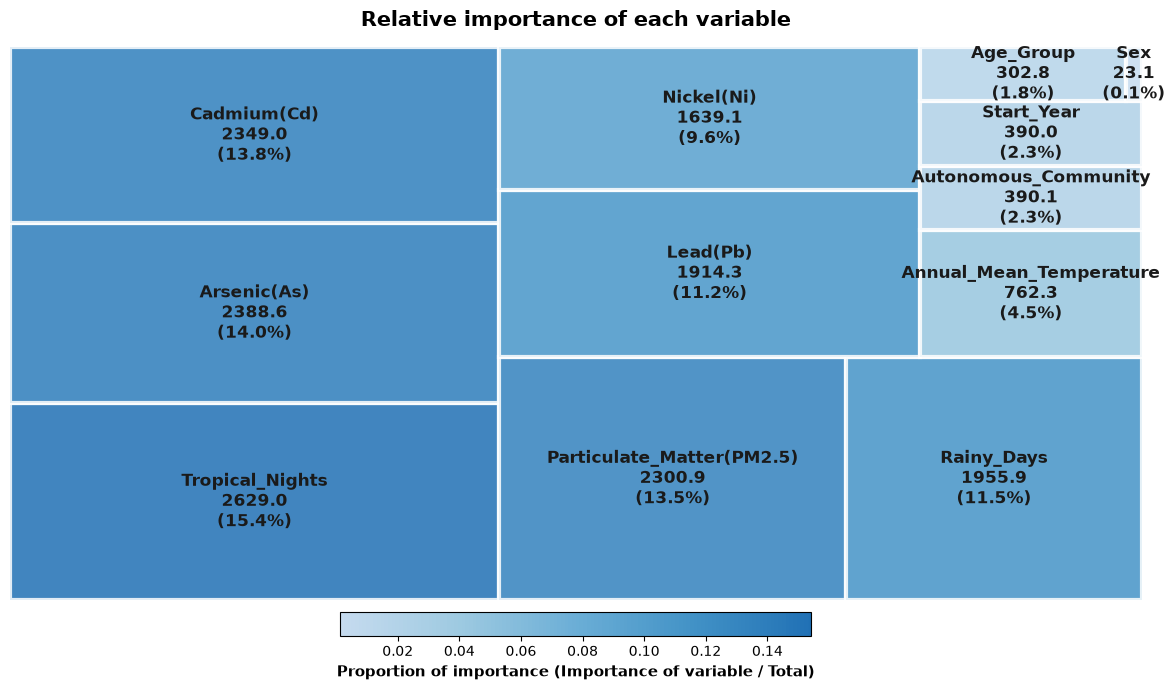
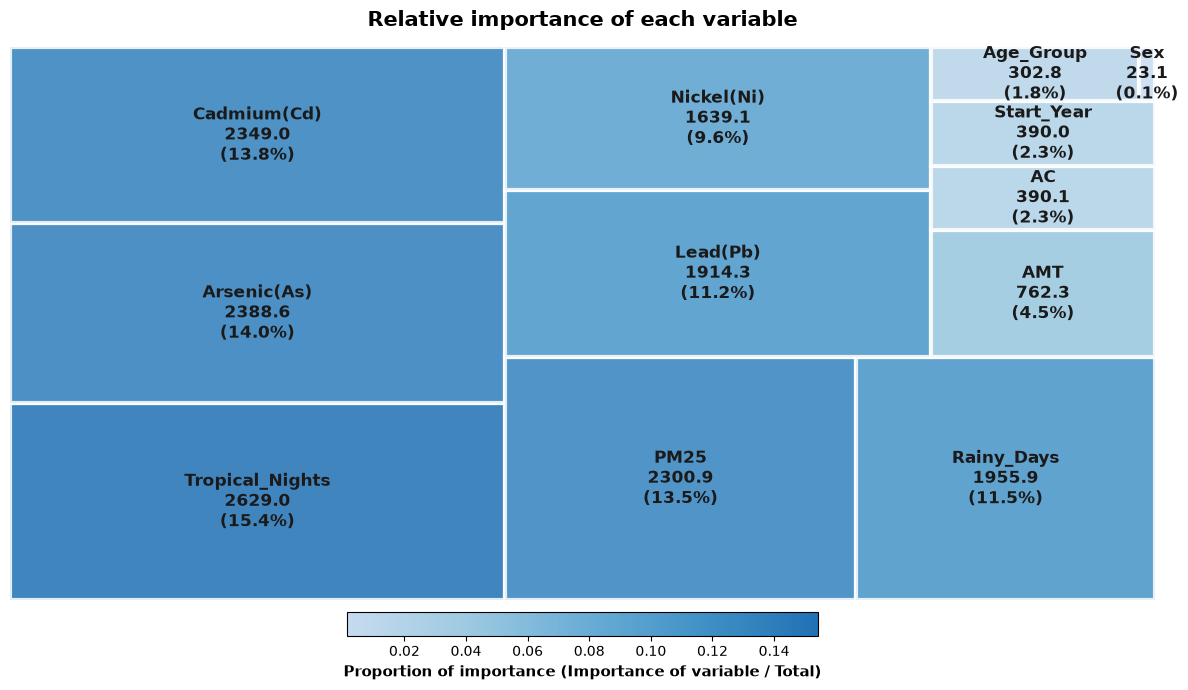
FIX: results vars name

diff --git a/results/readme.md b/results/readme.md
@@ -1,0 +1,22 @@
+The following table details the variables included in the study along with the acronyms used throughout the results:
+
+| Dataset variable | Acronym |
+| :--- | :---: |
+| `Crude_Rate` | **CR** |
+| `Arsenic(As)` | — |
+| `Cadmium(Cd)` | — |
+| `Nickel(Ni)` | — |
+| `Particulate_Matter(PM2.5)` | **PM25** |
+| `Lead(Pb)` | — |
+| `Annual_Mean_Temperature` | **AMT** |
+| `Absolute_Maximum_Temperature` | **AMXT** |
+| `Absolute_Minimum_Temperature` | **AMNT** |
+| `Total_Precipitation` | **TP** |
+| `Rainy_Days` | — |
+| `Tropical_Nights` | — |
+| `Net_Household_Income` | **NHI** |
+| `Class` | — |
+| `Autonomous_Community` | **AC** |
+| `Age_Group` | — |
+| `Sex` | — |
+| `Start_Year` | — |
